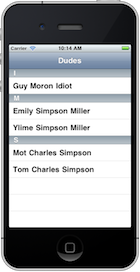
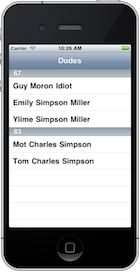
screenshot is actually corrent...finally

Changed region(s): [[0.0571, 0.3235, 0.9429, 0.6471], [0.1143, 0.2353, 0.1429, 0.2941], [0.4857, 0.1471, 0.5143, 0.1765]]

diff --git a/SKTableViewControllerApp/SKControllerTestViewController.m b/SKTableViewControllerApp/SKControllerTestViewController.m
@@ -13,7 +13,7 @@
         Dude *guy        = [[[Dude alloc] initWithName:@"Guy Moron Idiot" hairColor:[UIColor blackColor] height:[NSNumber numberWithInt:67]] autorelease];
         
         [dataSource setObjects:[NSSet setWithObjects:emily, tom, emilysTwin, tomsTwin, guy, nil]];
-        dataSource.sortSelector = @selector(initial);
+        dataSource.sortSelector = @selector(height);
         
         self.title = @"Dudes";
     }
@@ -22,7 +22,7 @@
 }
 
 - (NSString *)tableView:(UITableView *)tableView titleForHeaderInSection:(NSInteger)section {
-    return (NSString *)[dataSource identifierForSection:section];
+    return [(NSNumber *)[dataSource identifierForSection:section] stringValue];
 }
 
 - (UITableViewCell *)tableView:(UITableView *)tableView cellForRowAtIndexPath:(NSIndexPath *)indexPath {
